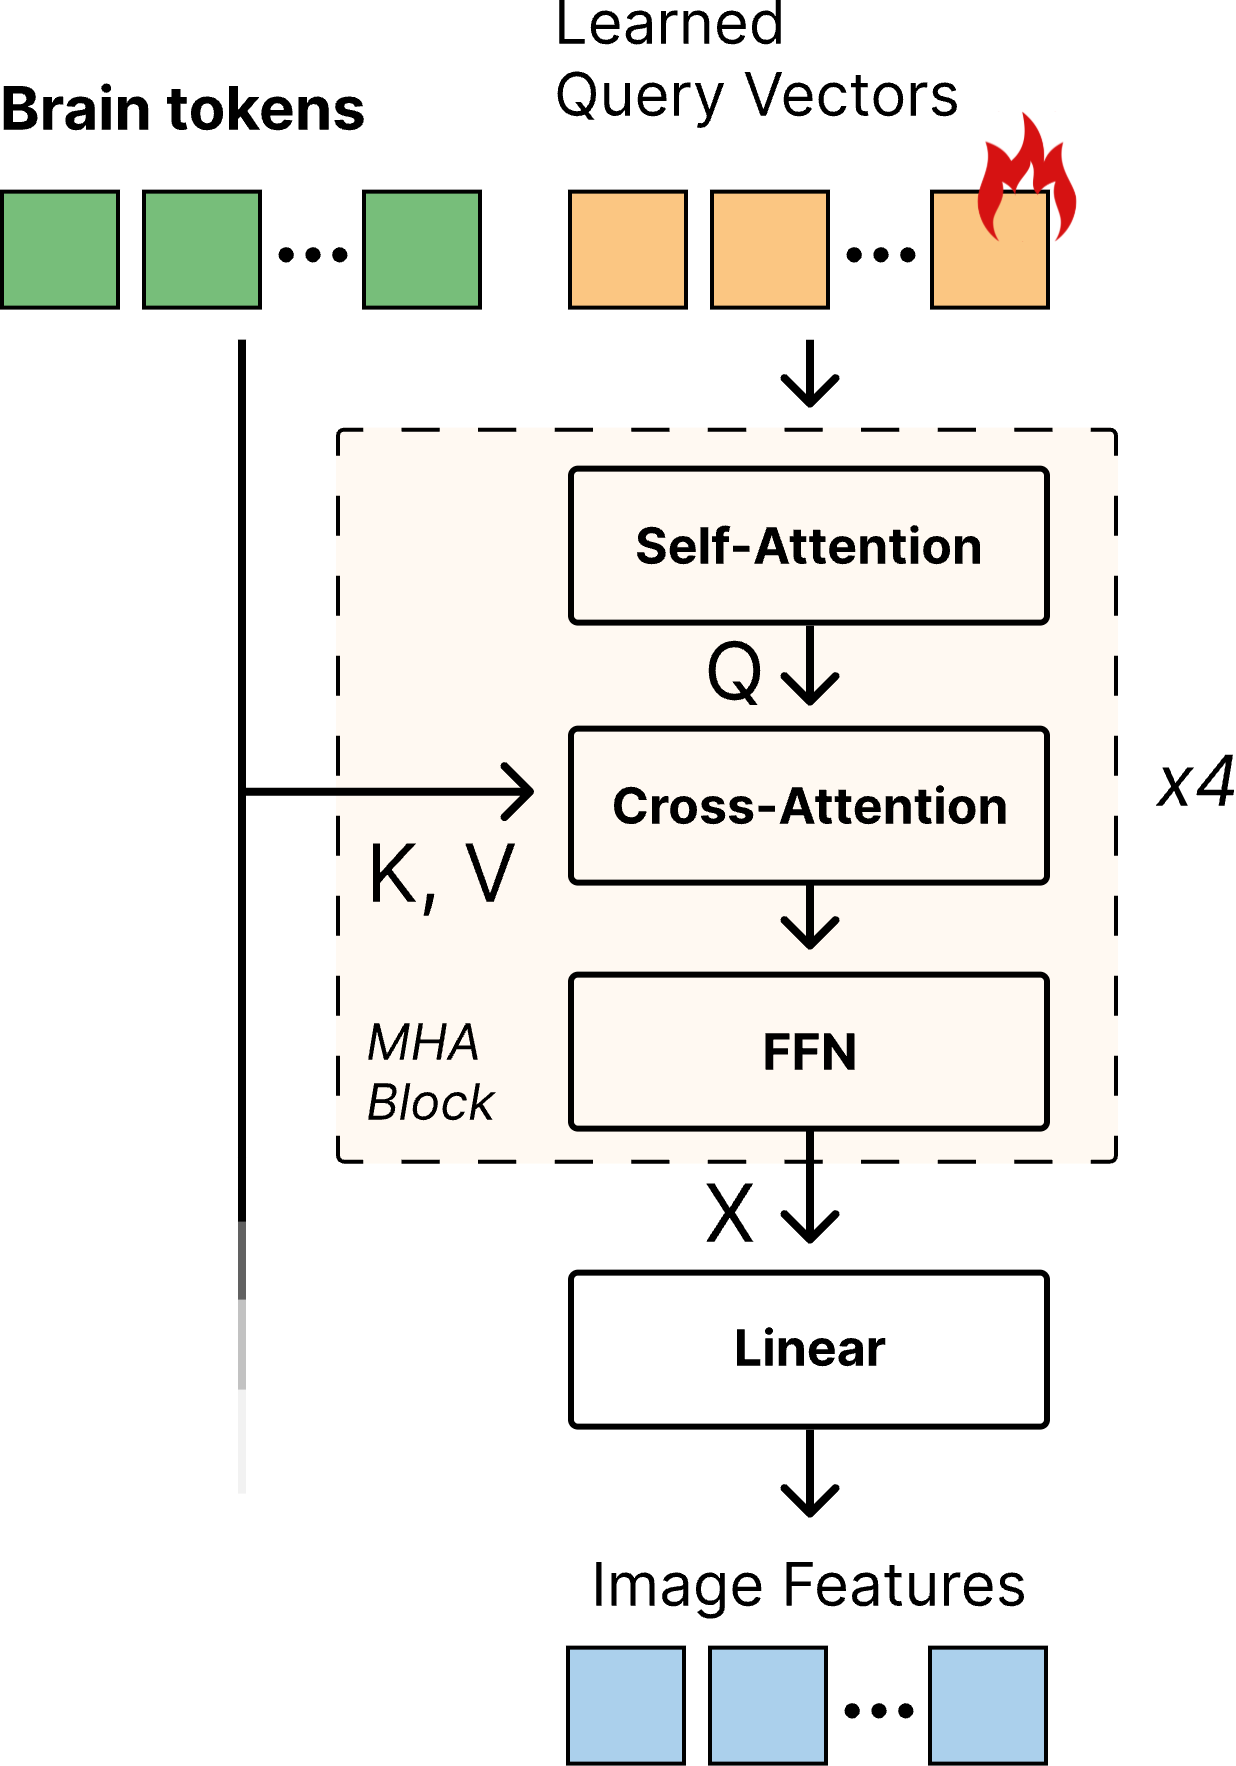
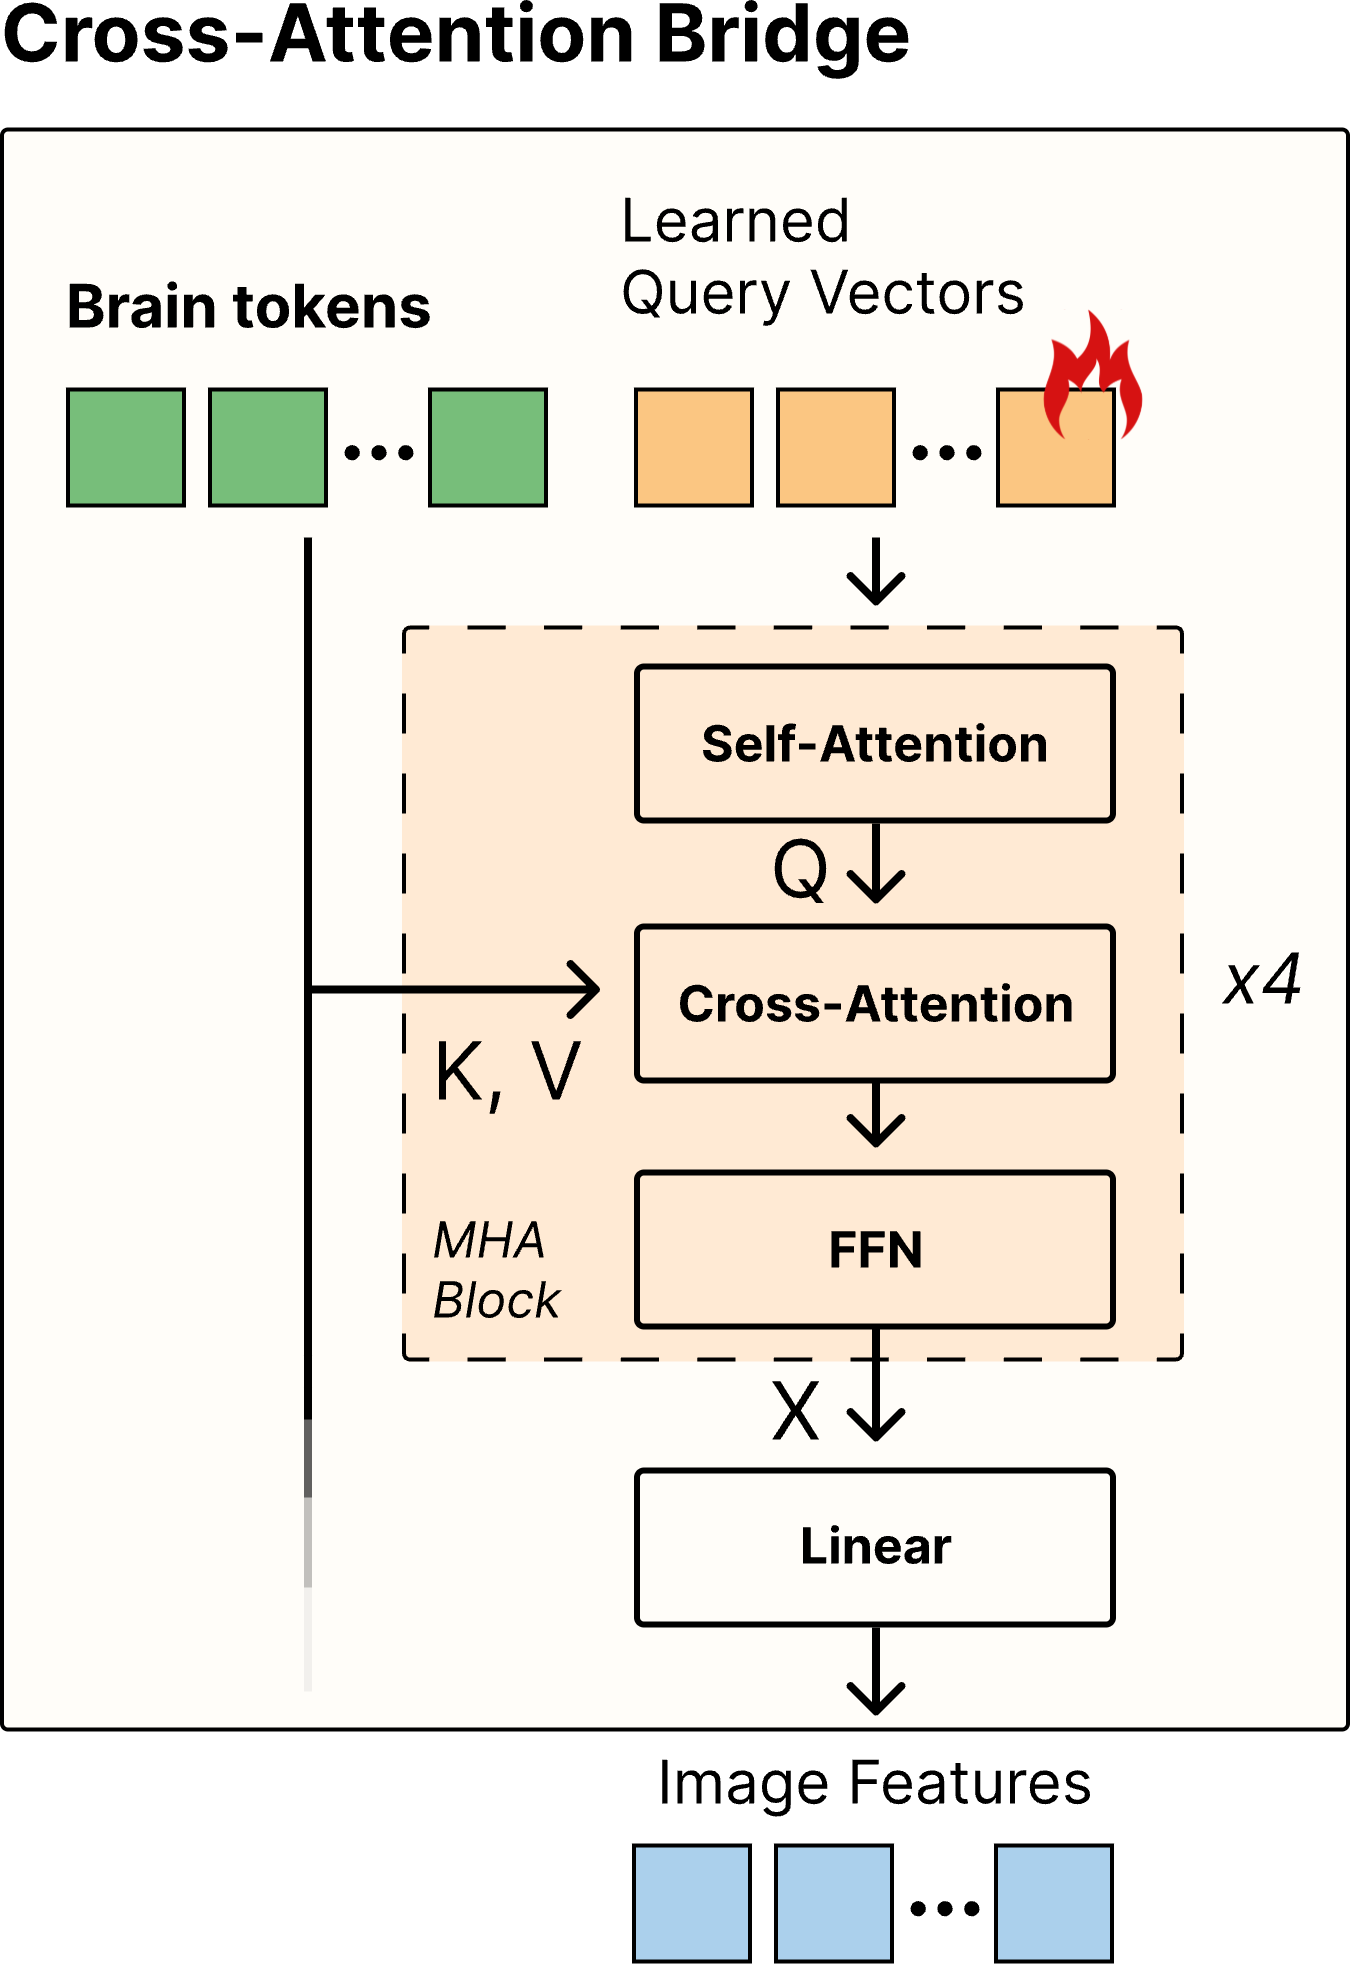
figure update

diff --git a/papers/IEEE_paper/main.tex b/papers/IEEE_paper/main.tex
@@ -63,7 +63,7 @@ timototar@ucsd.edu}
 \textit{University of California, Berkeley}\\
 maxwellfung@berkeley.edu}
 \and
-\IEEEauthorblockN{Arnav Gurha}
+\IEEEauthorblockN{Arnav Gurha\IEEEauthorrefmark{1}}
 \IEEEauthorblockA{\textit{School of Biological Sciences} \\
 \textit{University of California, San Diego}\\
 agurha@ucsd.edu}
